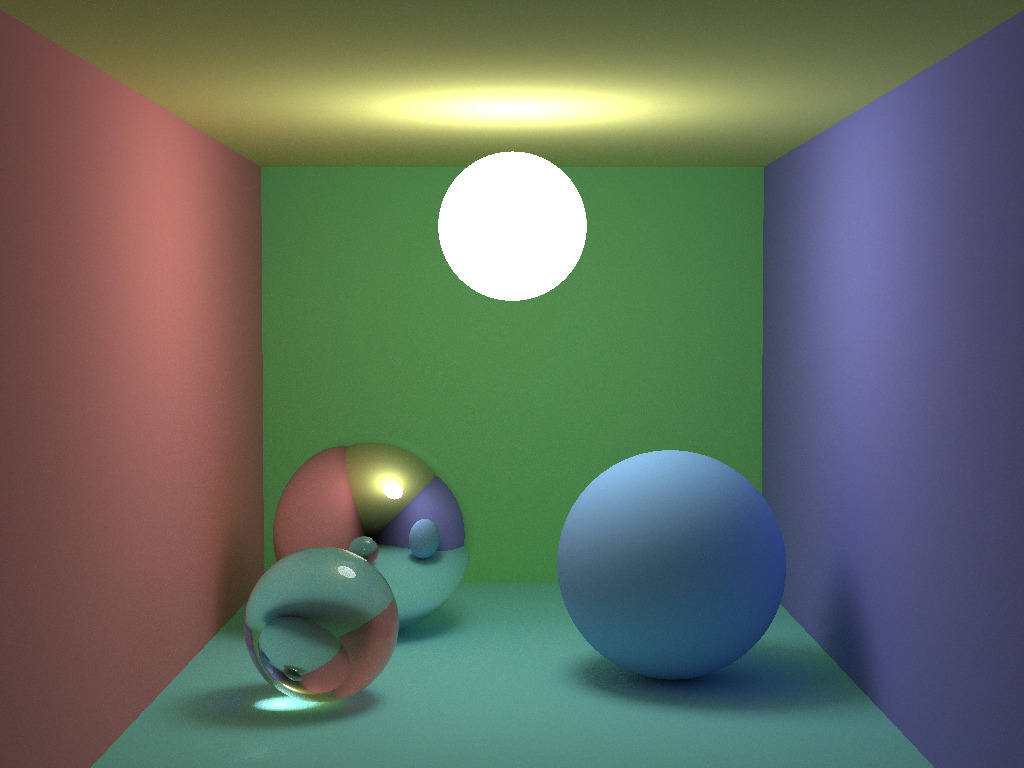
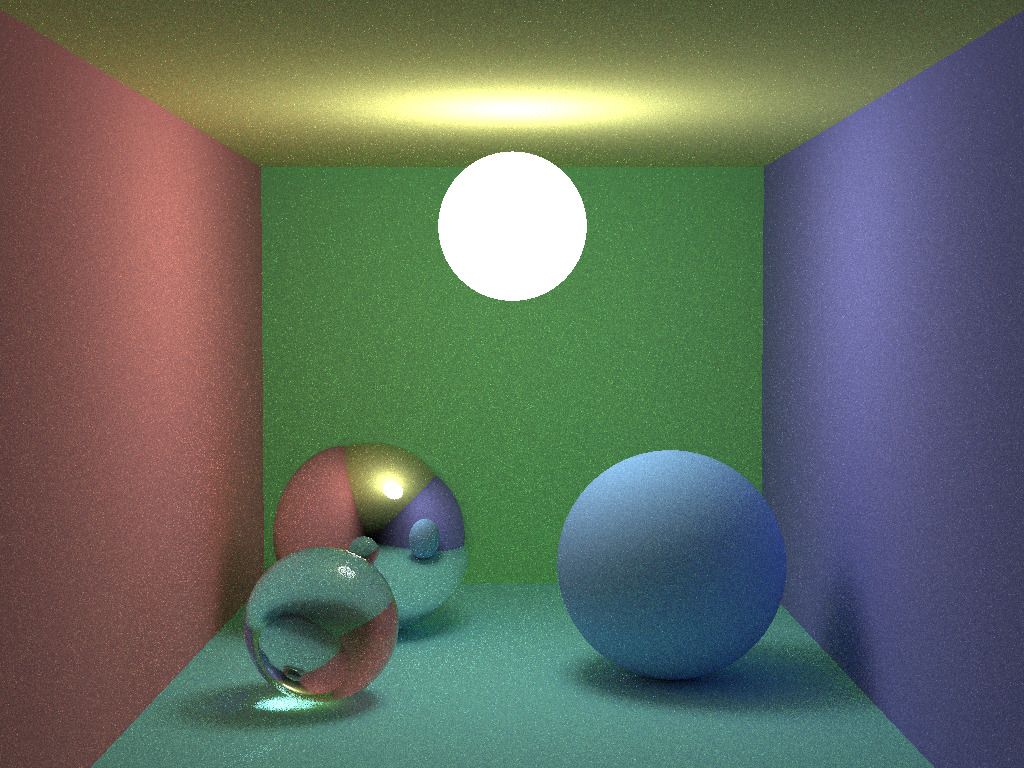
changed reflectance value

diff --git a/Tarea18(nuevas)/rt.cpp b/Tarea18(nuevas)/rt.cpp
@@ -263,7 +263,7 @@ Color shade(const Ray &r, int bounce, int cond) {
 	// material especular 
 
 	if (obj.mat == 1){
-		Vector wr = r.d - nv*2*(nv.dot(r.d));  // direccion de refleccion especular ideal
+		Vector wr = r.d - n*2*(n.dot(r.d));  // direccion de refleccion especular ideal
 		wr.normalize();
 		return baseColor.mult(shade(Ray(x, wr), bounce, 1));
 	}
@@ -303,6 +303,7 @@ Color shade(const Ray &r, int bounce, int cond) {
 				Color Le = temp.e;
 				double dotCos1 = n.dot(wl);
 				probLight = probSolidAngle(cosTmax);
+				double probLuzBDRF=0.5 * wl.z;
 				directLight = directLight + Le.mult(bsdf * fabs(dotCos1) * (1.0 / (probLight*continueprob)));
 			}
 		}
@@ -358,7 +359,7 @@ Color shade(const Ray &r, int bounce, int cond) {
 		double ft = (((nt*nt)/(ni*ni))*(1 - F)) / fabs(cosTt);
 
 		if (reflect) {
-			return obj.e + baseColor.mult(shade(reflectionRay, bounce, 1));
+			return obj.e + baseColor.mult(shade(reflectionRay, bounce, 1)) * (fr*fabs(nv.dot(wr))/pr);
 		}
 
 		return obj.e + baseColor.mult(shade(refractionRay, bounce, 1))*(ft*fabs(nv.dot(wt))/pt);
@@ -373,7 +374,7 @@ Color shade(const Ray &r, int bounce, int cond) {
 int main(int argc, char *argv[]) {
 	int w = 1024, h = 768; // image resolution
 
-	int N = 512;  // numero de muestras
+	int N = 32;  // numero de muestras
 
 	// fija la posicion de la camara y la dirección en que mira
 	Ray camera( Point(0, 11.2, 214), Vector(0, -0.042612, -1).normalize() );
